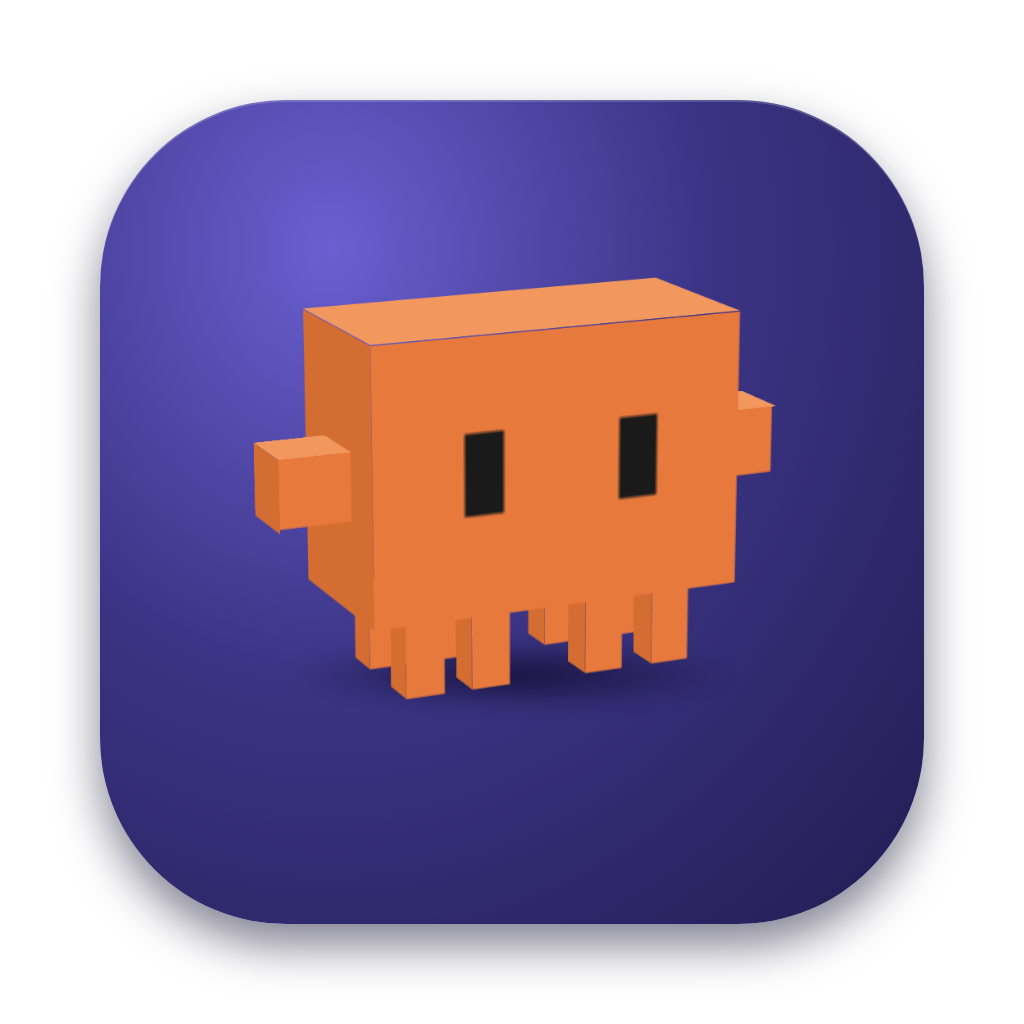
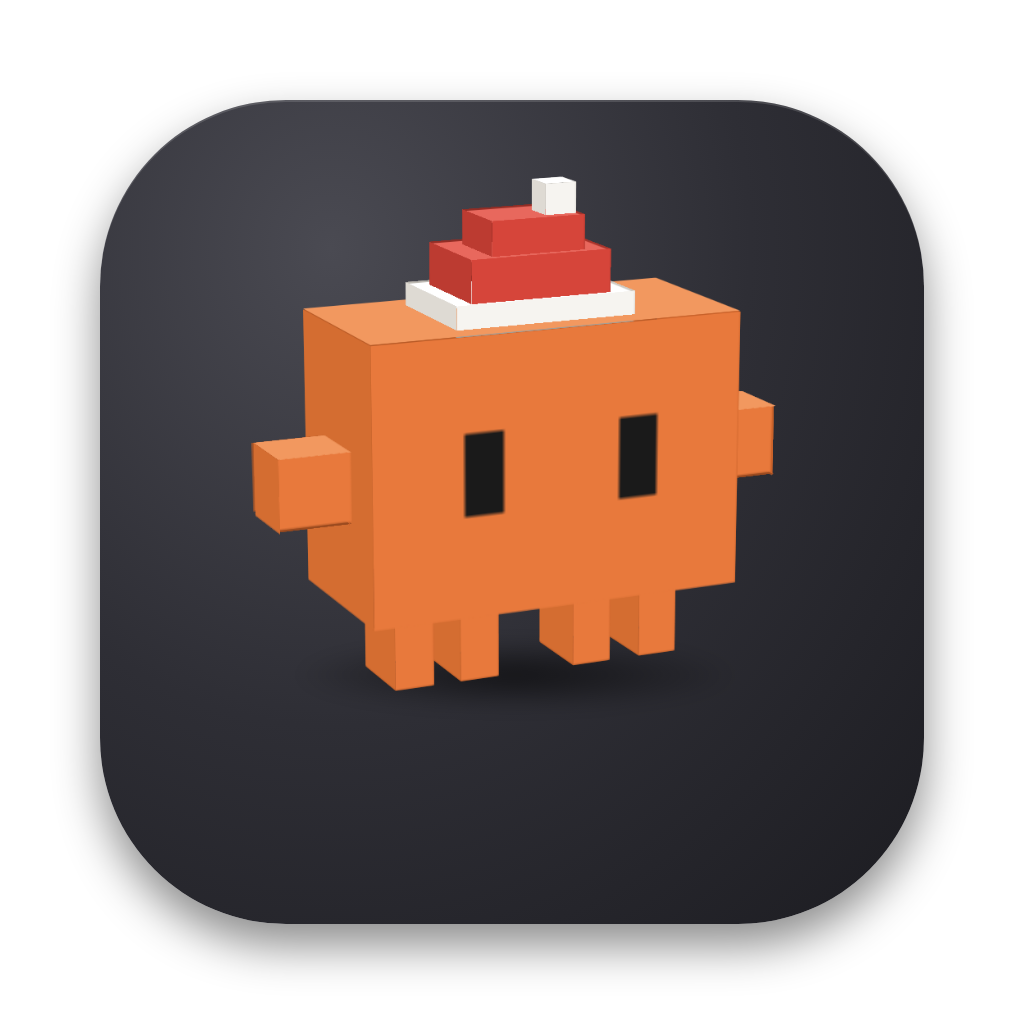
docs: images du README avec le nouveau fond graphite et l'icône de Noël

diff --git a/app/showcase.html b/app/showcase.html
@@ -6,14 +6,14 @@
     <link rel="stylesheet" href="/src/styles.css" />
     <style>
       html, body { width: 1800px; height: 310px; margin: 0; display: block; overflow: hidden; background: transparent; }
-      .plate { position: absolute; inset: 0; border-radius: 36px; background: radial-gradient(ellipse at 20% 0%, #5a50c0 0%, #342d7c 50%, #1f1b4a 100%); }
+      .plate { position: absolute; inset: 0; border-radius: 36px; background: radial-gradient(ellipse at 20% 0%, #4a4a52 0%, #2e2e35 50%, #1c1c21 100%); }
       .row { position: absolute; inset: 0; display: flex; justify-content: space-around; align-items: flex-end; padding: 0 20px 84px; }
       .slot { position: relative; width: 200px; height: 112px; display: flex; justify-content: center; }
       .slot > #pet { transform: scale(1.3); transform-origin: 50% 100%; animation: none !important; }
       .slot > #pet * { animation-play-state: paused !important; }
       .slot > #pet .rig { transition: none; }
-      .slot span { position: absolute; left: 0; right: 0; bottom: -52px; text-align: center; color: #f3ecff; font: 700 21px/1.2 "Chalkboard SE", "Comic Sans MS", cursive; }
-      .slot .shadow { position: absolute; left: 14px; right: 14px; bottom: -14px; height: 26px; border-radius: 50%; background: radial-gradient(closest-side, rgba(8, 4, 30, 0.65), transparent); filter: blur(5px); }
+      .slot span { position: absolute; left: 0; right: 0; bottom: -52px; text-align: center; color: #f1f1f3; font: 700 21px/1.2 "Chalkboard SE", "Comic Sans MS", cursive; }
+      .slot .shadow { position: absolute; left: 14px; right: 14px; bottom: -14px; height: 26px; border-radius: 50%; background: radial-gradient(closest-side, rgba(0, 0, 0, 0.6), transparent); filter: blur(5px); }
     </style>
   </head>
   <body>
